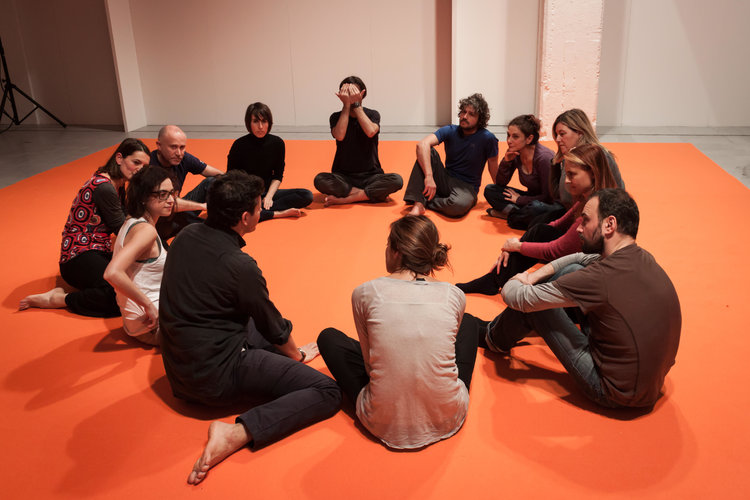
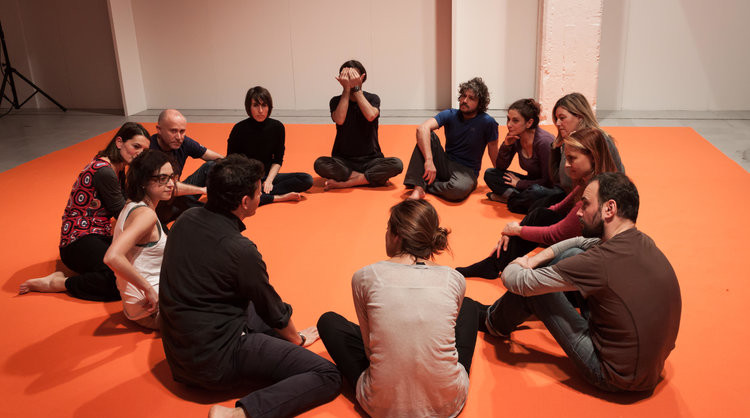
Changer le background des activités

diff --git a/affichage/client/accueil_client.php b/affichage/client/accueil_client.php
@@ -43,7 +43,7 @@ include $_SERVER['DOCUMENT_ROOT'].'/Project-Ekah/php/script/Login/connect.php';
 
     <main>
       <div class="top-img">
-        <img src="../../img/activite/mouvement_intuitif.png" alt="Mouvement Intuitif">
+        <img src="../../img/activite/reflexion.jpg" alt="Mouvement Intuitif">
         <div class="shade"></div>
         <p class="txt-centered">Les ateliers</p>
       </div>
